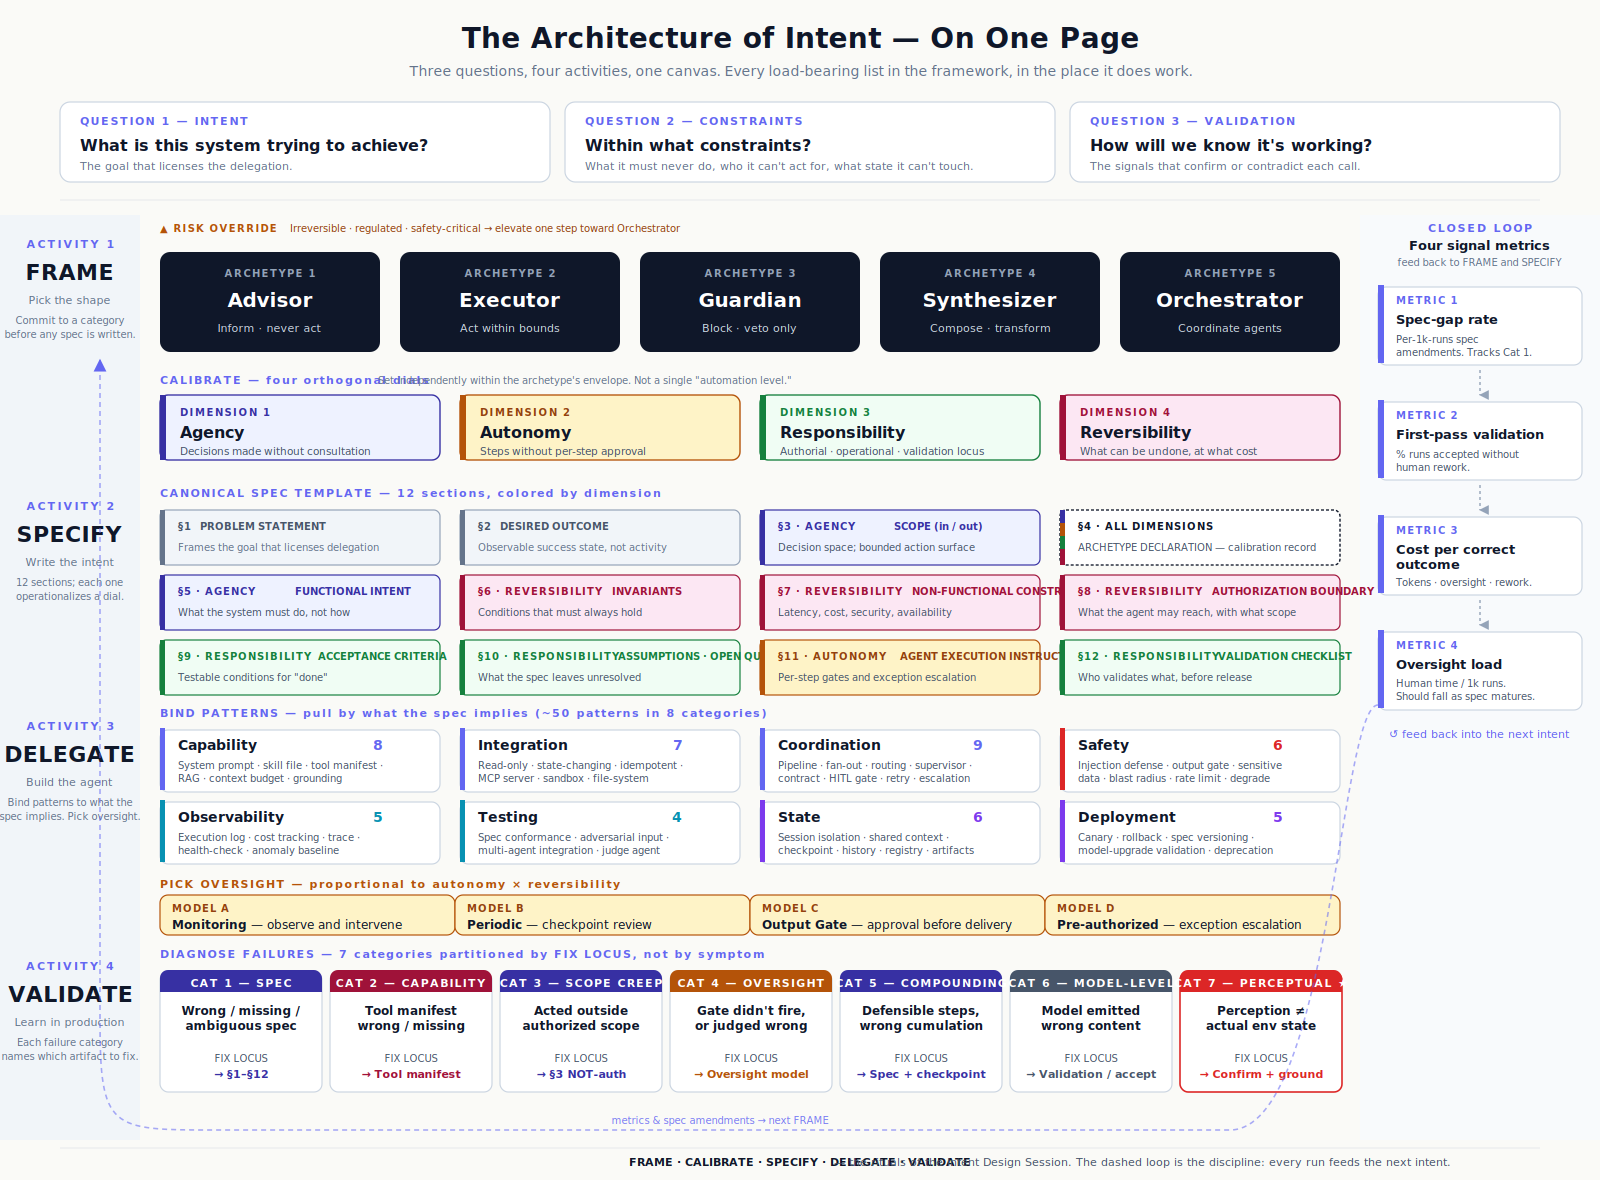
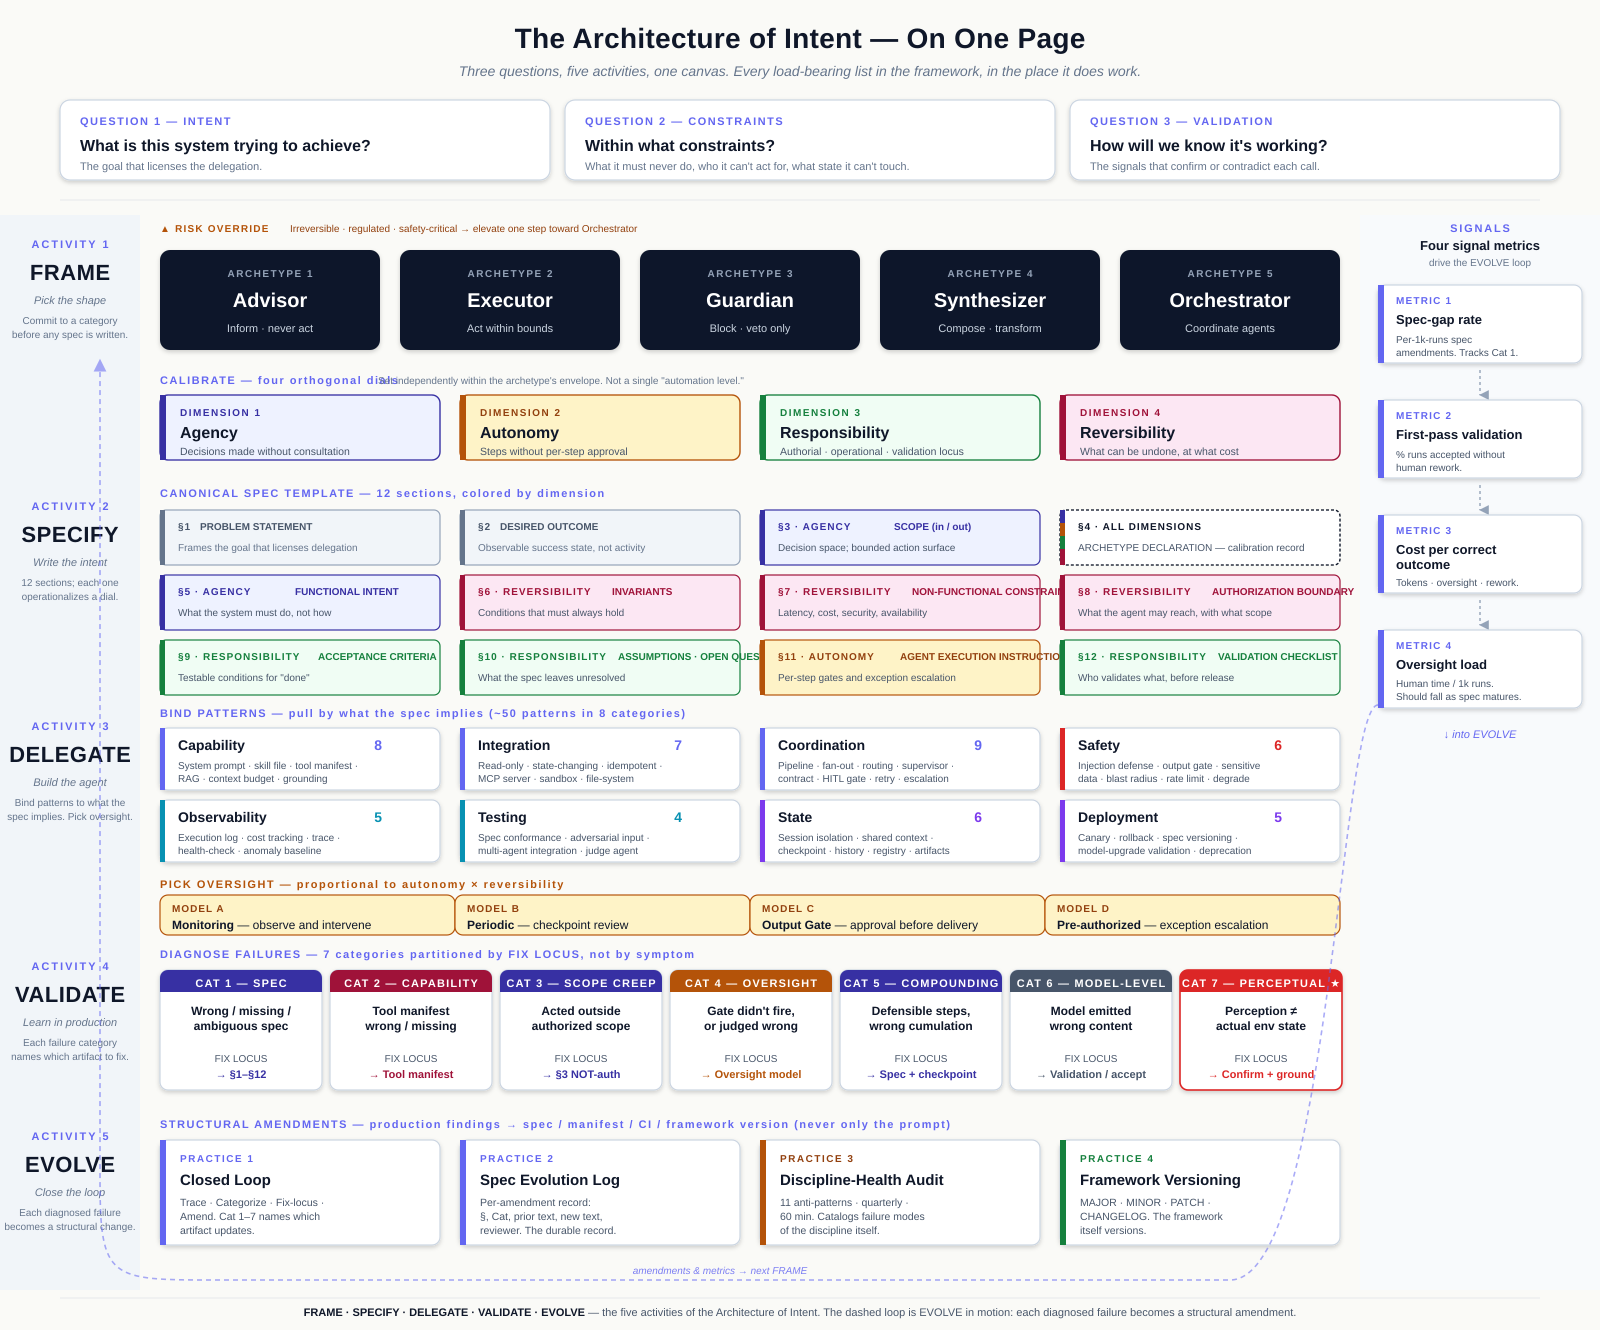
Canvas redraw + deck activities slide — v2.0.0-rc1 → v2.0.0-rc2 (MAJOR-rc)
Closes the rc1 prose-vs-figure gap (rc1 said "five activities" but the
canvas figure still showed four rows). Framework load-bearing commitments
unchanged from rc1.

Canvas redraw (paper/figures/architecture-of-intent-canvas.svg):
- viewBox extended 1180 → 1330; left-spine and right-rail backgrounds
  extend by 150px to match.
- New EVOLVE row at y=1140-1245 with four practice chips (Closed Loop ·
  Spec Evolution Log · Discipline-Health Audit · Framework Versioning),
  parallel in width and spacing to SPECIFY's four-column grid.
- Loop arrow redrawn: descends from right-rail metrics into EVOLVE,
  sweeps beneath EVOLVE at y=1280, ascends the left spine back to FRAME.
  EVOLVE becomes a first-class waypoint instead of an implicit feedback.
- Right-rail title softened from "CLOSED LOOP" to "SIGNALS — drive the
  EVOLVE loop" — metrics are now input to a named activity, not a
  self-contained closing loop.
- Bottom caption updated to "FRAME · SPECIFY · DELEGATE · VALIDATE ·
  EVOLVE — the five activities of the Architecture of Intent."
- PNG regenerated at 1600×1330 and mirrored to src/images/.

Deck (paper/presentation_content.py + rebuilt PPTX/HTML):
- New activities slide (kind=table, "Five activities, one canvas")
  inserted at position 6, showing each activity with what it binds and
  what it produces.
- Existing "Four load-bearing elements" cards4 retitled to
  "...bound to the spine" to clarify the activities-as-spine framing.
[…]

diff --git a/paper/architecture-of-intent.html b/paper/architecture-of-intent.html
@@ -748,7 +748,7 @@ body.overview .slide > * { transform: scale(0.32); transform-origin: top left; w
   
     <div class="page-footer">
       <span class="footer-left">The Architecture of Intent  ·  Marcel Aldecoa, 2026</span>
-      <span class="footer-right">02 / 19</span>
+      <span class="footer-right">02 / 20</span>
     </div>
 </section>
 
@@ -770,7 +770,7 @@ body.overview .slide > * { transform: scale(0.32); transform-origin: top left; w
   
     <div class="page-footer">
       <span class="footer-left">The Architecture of Intent  ·  Marcel Aldecoa, 2026</span>
-      <span class="footer-right">03 / 19</span>
+      <span class="footer-right">03 / 20</span>
     </div>
 </section>
 
@@ -806,7 +806,7 @@ body.overview .slide > * { transform: scale(0.32); transform-origin: top left; w
   
     <div class="page-footer">
       <span class="footer-left">The Architecture of Intent  ·  Marcel Aldecoa, 2026</span>
-      <span class="footer-right">04 / 19</span>
+      <span class="footer-right">04 / 20</span>
     </div>
 </section>
 
@@ -842,7 +842,26 @@ body.overview .slide > * { transform: scale(0.32); transform-origin: top left; w
   
     <div class="page-footer">
       <span class="footer-left">The Architecture of Intent  ·  Marcel Aldecoa, 2026</span>
-      <span class="footer-right">05 / 19</span>
+      <span class="footer-right">05 / 20</span>
+    </div>
+</section>
+
+
+<section class="slide slide-table">
+  
+    <div class="section-chip">
+      <span class="chip-square"></span>
+      <span class="chip-label">02 · ACTIVITIES</span>
+    </div>
+  <h2 class="slide-title">Five activities, one canvas</h2>
+  <div class="slide-tagline">The framework is organized along an activity spine. Each activity binds a specific load-bearing list; reading the framework along the spine makes the rest fit together.</div>
+  <table class="modern-table"><thead><tr><th>Activity</th><th>Binds</th><th>Output</th></tr></thead>
+    <tbody><tr><td class="first">Frame</td><td class="">5 archetypes · 4 dimensions</td><td class="">Archetype + calibration</td></tr><tr><td class="first">Specify</td><td class="">12 spec sections · sub-blocks</td><td class="">The canonical spec</td></tr><tr><td class="first">Delegate</td><td class="">8 pattern categories · 4 oversight</td><td class="">Bound agent + oversight</td></tr><tr><td class="first">Validate</td><td class="">7 failure cats · 4 signal metrics</td><td class="">Diagnosed failures, fix-locus</td></tr><tr><td class="first">Evolve</td><td class="">Closed loop · audit · versioning</td><td class="">Structural amendments</td></tr></tbody>
+  </table>
+  
+    <div class="page-footer">
+      <span class="footer-left">The Architecture of Intent  ·  Marcel Aldecoa, 2026</span>
+      <span class="footer-right">06 / 20</span>
     </div>
 </section>
 
@@ -853,7 +872,7 @@ body.overview .slide > * { transform: scale(0.32); transform-origin: top left; w
       <span class="chip-square"></span>
       <span class="chip-label">02 · THE FRAMEWORK</span>
     </div>
-  <h2 class="slide-title">Four load-bearing elements</h2>
+  <h2 class="slide-title">Four load-bearing elements bound to the spine</h2>
   <div class="slide-tagline">The synthesis is the larger contribution. The four bind into a framework you can apply in design, in spec review, and in post-incident diagnosis.</div>
   <div class="cards4-grid">
     
@@ -893,7 +912,7 @@ body.overview .slide > * { transform: scale(0.32); transform-origin: top left; w
   
     <div class="page-footer">
       <span class="footer-left">The Architecture of Intent  ·  Marcel Aldecoa, 2026</span>
-      <span class="footer-right">06 / 19</span>
+      <span class="footer-right">07 / 20</span>
     </div>
 </section>
 
@@ -912,7 +931,7 @@ body.overview .slide > * { transform: scale(0.32); transform-origin: top left; w
   
     <div class="page-footer">
       <span class="footer-left">The Architecture of Intent  ·  Marcel Aldecoa, 2026</span>
-      <span class="footer-right">07 / 19</span>
+      <span class="footer-right">08 / 20</span>
     </div>
 </section>
 
@@ -1131,7 +1150,7 @@ body.overview .slide > * { transform: scale(0.32); transform-origin: top left; w
   
     <div class="page-footer">
       <span class="footer-left">The Architecture of Intent  ·  Marcel Aldecoa, 2026</span>
-      <span class="footer-right">08 / 19</span>
+      <span class="footer-right">09 / 20</span>
     </div>
 </section>
 
@@ -1182,7 +1201,7 @@ body.overview .slide > * { transform: scale(0.32); transform-origin: top left; w
   
     <div class="page-footer">
       <span class="footer-left">The Architecture of Intent  ·  Marcel Aldecoa, 2026</span>
-      <span class="footer-right">09 / 19</span>
+      <span class="footer-right">10 / 20</span>
     </div>
 </section>
 
@@ -1344,7 +1363,7 @@ body.overview .slide > * { transform: scale(0.32); transform-origin: top left; w
   
     <div class="page-footer">
       <span class="footer-left">The Architecture of Intent  ·  Marcel Aldecoa, 2026</span>
-      <span class="footer-right">10 / 19</span>
+      <span class="footer-right">11 / 20</span>
     </div>
 </section>
 
@@ -1413,7 +1432,7 @@ body.overview .slide > * { transform: scale(0.32); transform-origin: top left; w
   
     <div class="page-footer">
       <span class="footer-left">The Architecture of Intent  ·  Marcel Aldecoa, 2026</span>
-      <span class="footer-right">11 / 19</span>
+      <span class="footer-right">12 / 20</span>
     </div>
 </section>
 
@@ -1463,7 +1482,7 @@ body.overview .slide > * { transform: scale(0.32); transform-origin: top left; w
   
     <div class="page-footer">
       <span class="footer-left">The Architecture of Intent  ·  Marcel Aldecoa, 2026</span>
-      <span class="footer-right">12 / 19</span>
+      <span class="footer-right">13 / 20</span>
     </div>
 </section>
 
@@ -1576,7 +1595,7 @@ body.overview .slide > * { transform: scale(0.32); transform-origin: top left; w
   
     <div class="page-footer">
       <span class="footer-left">The Architecture of Intent  ·  Marcel Aldecoa, 2026</span>
-      <span class="footer-right">13 / 19</span>
+      <span class="footer-right">14 / 20</span>
     </div>
 </section>
 
@@ -1625,7 +1644,7 @@ body.overview .slide > * { transform: scale(0.32); transform-origin: top left; w
   
     <div class="page-footer">
       <span class="footer-left">The Architecture of Intent  ·  Marcel Aldecoa, 2026</span>
-      <span class="footer-right">14 / 19</span>
+      <span class="footer-right">15 / 20</span>
     </div>
 </section>
 
@@ -1700,7 +1719,7 @@ body.overview .slide > * { transform: scale(0.32); transform-origin: top left; w
   
     <div class="page-footer">
       <span class="footer-left">The Architecture of Intent  ·  Marcel Aldecoa, 2026</span>
-      <span class="footer-right">15 / 19</span>
+      <span class="footer-right">16 / 20</span>
     </div>
 </section>
 
@@ -1719,7 +1738,7 @@ body.overview .slide > * { transform: scale(0.32); transform-origin: top left; w
   
     <div class="page-footer">
       <span class="footer-left">The Architecture of Intent  ·  Marcel Aldecoa, 2026</span>
-      <span class="footer-right">16 / 19</span>
+      <span class="footer-right">17 / 20</span>
     </div>
 </section>
 
@@ -1776,7 +1795,7 @@ body.overview .slide > * { transform: scale(0.32); transform-origin: top left; w
   
     <div class="page-footer">
       <span class="footer-left">The Architecture of Intent  ·  Marcel Aldecoa, 2026</span>
-      <span class="footer-right">17 / 19</span>
+      <span class="footer-right">18 / 20</span>
     </div>
 </section>
 
@@ -1833,7 +1852,7 @@ body.overview .slide > * { transform: scale(0.32); transform-origin: top left; w
   
     <div class="page-footer">
       <span class="footer-left">The Architecture of Intent  ·  Marcel Aldecoa, 2026</span>
-      <span class="footer-right">18 / 19</span>
+      <span class="footer-right">19 / 20</span>
     </div>
 </section>
 
@@ -1867,7 +1886,7 @@ body.overview .slide > * { transform: scale(0.32); transform-origin: top left; w
 
   </div>
 </div>
-<div class="nav-hint">1 / 19</div>
+<div class="nav-hint">1 / 20</div>
 <div class="progress-bar"></div>
 <script>
 (function(){

diff --git a/paper/check-deck-sync.py b/paper/check-deck-sync.py
@@ -84,8 +84,7 @@ CANONICAL_NOT_CLAIMED_COUNT = 4
 
 # Five framework activities — promoted to a load-bearing list in v2.0.0
 # (Evolve was elevated from a closing-Validate sub-discipline to a peer
-# fifth activity). Paper-side only at rc1 because the deck has no
-# activities slide yet; the deck-side check activates when a slide lands.
+# fifth activity). Both paper and deck checked from rc2 onward.
 CANONICAL_PHASES = [
     "Frame",
     "Specify",
@@ -208,13 +207,12 @@ def check_devsquad_phases(paper_text):
     return failures
 
 
-def check_phases(paper_text):
-    """All 5 framework activity names appear in the paper.
+def check_phases(paper_text, deck):
+    """All 5 framework activity names appear in both paper and deck.
 
-    v2.0.0-rc1: paper-side only. The deck has no activities slide yet;
-    when one lands, add a deck-side check that mirrors check_archetypes's
-    pattern (find slide by section substring 'ACTIVITIES', verify rows
-    match CANONICAL_PHASES).
+    Paper side: capitalized phase names appear as standalone words.
+    Deck side: there is a `kind=table` slide whose section contains
+    'ACTIVITIES' and whose first column matches CANONICAL_PHASES in order.
 
     Match is verbatim and case-sensitive on the capitalized phase names
     (Frame, Specify, Delegate, Validate, Evolve) — the activity names
@@ -224,6 +222,16 @@ def check_phases(paper_text):
     for phase in CANONICAL_PHASES:
         if not re.search(rf"\b{re.escape(phase)}\b", paper_text):
             failures.append(f"framework activity '{phase}' missing from paper")
+
+    slide = find_slide(deck.SLIDES, "table", section_substr="ACTIVITIES")
+    if slide is None:
+        failures.append("deck has no activities table slide (kind=table, section contains 'ACTIVITIES')")
+    else:
+        deck_phases = [row[0] for row in slide["rows"]]
+        if deck_phases != CANONICAL_PHASES:
+            failures.append(
+                f"deck activities table is {deck_phases}, expected {CANONICAL_PHASES}"
+            )
     return failures
 
 
@@ -267,7 +275,7 @@ def main():
         ("Failure categories (7)",  lambda: check_categories(paper_text, deck)),
         ("Cat 7 sub-categories (4)", lambda: check_cat7_subs(paper_text, deck)),
         ("DevSquad phases (8)",     lambda: check_devsquad_phases(paper_text)),
-        ("Framework activities (5)", lambda: check_phases(paper_text)),
+        ("Framework activities (5)", lambda: check_phases(paper_text, deck)),
         ("Honest-accounting cardinality (3 / 4)", lambda: check_honest_accounting(deck)),
     ]:
         f = fn()

diff --git a/paper/presentation_content.py b/paper/presentation_content.py
@@ -134,9 +134,24 @@ SLIDES = [
     },
     # --------------------------------------------------------------- 6
     {
+        "kind": "table",
+        "section": "02 · ACTIVITIES",
+        "title":   "Five activities, one canvas",
+        "tagline": "The framework is organized along an activity spine. Each activity binds a specific load-bearing list; reading the framework along the spine makes the rest fit together.",
+        "headers": ["Activity", "Binds", "Output"],
+        "rows": [
+            ["Frame",     "5 archetypes · 4 dimensions",            "Archetype + calibration"],
+            ["Specify",   "12 spec sections · sub-blocks",          "The canonical spec"],
+            ["Delegate",  "8 pattern categories · 4 oversight",     "Bound agent + oversight"],
+            ["Validate",  "7 failure cats · 4 signal metrics",      "Diagnosed failures, fix-locus"],
+            ["Evolve",    "Closed loop · audit · versioning",       "Structural amendments"],
+        ],
+    },
+    # --------------------------------------------------------------- 7
+    {
         "kind": "cards4",
         "section": "02 · THE FRAMEWORK",
-        "title":   "Four load-bearing elements",
+        "title":   "Four load-bearing elements bound to the spine",
         "tagline": "The synthesis is the larger contribution. The four bind into a framework you can apply in design, in spec review, and in post-incident diagnosis.",
         "cards": [
             ("01", "ARCHETYPES",

diff --git a/CHANGELOG.md b/CHANGELOG.md
@@ -18,6 +18,47 @@ The version moves with PR merges to `main`. PR descriptions should name the bump
 
 ---
 
+## v2.0.0-rc2 — 2026-05-10
+
+**MAJOR (release candidate, continues v2.0.0 line)** — ships the five-row canvas redraw and the teaching-deck activities slide that were deferred from rc1. This rc closes the rc1 prose-vs-figure gap (rc1 said "five activities" but the canvas figure still showed four rows). The framework's load-bearing commitments are unchanged from rc1.
+
+### Added
+
+- **Canvas redraw to five rows.** `paper/figures/architecture-of-intent-canvas.svg` extended from a 1180px-tall, four-activity layout to a 1330px-tall, five-activity layout. New EVOLVE row contains four practice chips (Closed Loop · Spec Evolution Log · Discipline-Health Audit · Framework Versioning) parallel in width and spacing to the SPECIFY row's grid. Loop arrow redrawn to descend from the right-rail metrics into EVOLVE, sweep beneath EVOLVE, and ascend the left spine back to FRAME — preserving the "metrics → next intent" semantic while making EVOLVE a first-class waypoint instead of an implicit feedback. Right-rail title softened from "CLOSED LOOP" to "SIGNALS" with the strap "drive the EVOLVE loop," reflecting that the metrics are now the *input* to a named activity rather than a self-contained closing loop. Bottom caption updated from "FRAME · CALIBRATE · SPECIFY · DELEGATE · VALIDATE" to "FRAME · SPECIFY · DELEGATE · VALIDATE · EVOLVE — the five activities of the Architecture of Intent."
+- **Canvas PNG regenerated** at 1600×1330 (was 1600×1180) and mirrored to `src/images/architecture-of-intent-canvas.png` for mdBook.
+- **Deck activities slide.** `paper/presentation_content.py` gains a new slide at position 6 (`kind=table`, `section="02 · ACTIVITIES"`, title *"Five activities, one canvas"*) showing the five activities with the load-bearing list each binds and the artifact each produces. Existing "Four load-bearing elements" cards4 slide retitled to *"Four load-bearing elements bound to the spine"* to clarify the activities-as-spine framing. Both PPTX and HTML decks rebuilt; deck count goes from 19 → 20 slides.
+- **Deck-side phase check.** `paper/check-deck-sync.py`'s `check_phases()` previously checked the paper only at rc1; it now checks both the paper *and* the deck's activities table (mirrors `check_archetypes()`'s deck-side enforcement). The five-activity cardinality is now sync-locked across both artifacts.
+
+### Updated
+
+- **`src/introduction.md`** — image alt-text rewritten to describe the new five-row canvas; the rc1 deferral annotation paragraph removed.
+- **`paper/architecture-of-intent.md`** — figure caption rewritten to describe the new five-row layout; the rc1 deferral language removed; status header advances to **v2.0.0-rc2** with the rc2-shipped notation.
+- **`paper/architecture-of-intent.pdf`** — recompiled with the new figure caption; PDF size grows from ~982KB to ~1.16MB to accommodate the taller figure.
+- **Version markers advanced from `v2.0.0-rc1` to `v2.0.0-rc2`** in `src/appendices/glossary.md` (Framework Version entry), `src/appendices/companion-paper.md` (Framework version section), and `README.md` (Framework version section). The README's "four activities" enumeration also gets corrected to "five activities" — this was a v1.4.0-era leftover that PR #53 missed.
+
+### Deferred to subsequent rcs (unchanged from rc1's plan)
+
+- File-path renames (`architecture/` → `frame/` etc.) — purely filesystem cleanup; no reader-facing change.
+- Phase-5 chapter prose (PR-B).
+- Three scenarios written in full (PR-C, PR-E, PR-F).
+- Voice rewrites (PR-G, PR-H, PR-I).
+- Paper §5 — single canonical scenario walked end-to-end (PR-D).
+- Reading paths appendix (PR-J).
+
+### Trade-offs
+
+The rc2 canvas redraw extends the SVG height by 150px and adds a 105px-tall row of four chips. The chips deliberately mirror SPECIFY's four-column grid for visual consistency with the rest of the canvas. The right-rail metrics column intentionally does NOT move into the EVOLVE row — keeping it on the right rail preserves the existing visual conceit that signals are continuous (always emitting) while the activity rows are sequential (each happens at a particular phase of the work).
+
+### Why MAJOR-rc
+
+This rc continues the v2.0.0 MAJOR line because the deck-side phases check goes from non-existent to enforcing five activities — a net new sync constraint. Decks or papers that had been authored against v1.x's four-activity assumption fail this check; that's the intended behavior. The version number stays in the rc-line until the prose work and the file-path renames land; v2.0.0 final ships when the rc series stabilizes.
+
+### PRs
+
+- **PR-A2** (this rc) — canvas redraw, deck activities slide, deck-side phase check, version markers, paper PDF rebuild.
+
+---
+
 ## v2.0.0-rc1 — 2026-05-10
 
 **MAJOR (release candidate)** — promotes *Evolve* from a closing-Validate sub-discipline to a peer fifth activity, introduces three running scenarios across the five activities, and reorganizes the book around the activity spine. This is the structural commit of the v2.0.0 line; the prose work for the Phase-5 chapters and the 15 scenario chapters lands in subsequent rcs (PR-B through PR-F per the rollout plan in PR-A's description). The canvas redraw to a five-row layout, the teaching-deck refresh, and any file-path renames are deferred to PR-A2 / PR-A3 within the v2.0.0-rc line.

diff --git a/paper/architecture-of-intent.md b/paper/architecture-of-intent.md
@@ -5,7 +5,7 @@
 
 **Paper status:** Skeleton draft (paper v0.1). Position/framework paper, ~12–15 pages target. Companion artifact to the book of the same title.
 
-**Framework version:** v2.0.0-rc1 (2026-05-10). Both this paper and the [companion book](https://github.com/marcelaldecoa/TheArchitectureOfIntent) reflect the same framework version; load-bearing commitments (the five archetypes, the four dimensions, the seven failure categories, the four oversight models, the four signal metrics, the **five** activities, composition as a first-class design surface) move together. The v2.0.0 major bump promoted *Evolve* from a closing-Validate sub-discipline to a peer fifth activity, introduced three running scenarios across the activities in the book, and reorganized the book around the activity spine; the paper acquires §5 (a single canonical scenario walked end-to-end) in a subsequent rc. See `CHANGELOG.md` at the repository root for the versioning convention and release history.
+**Framework version:** v2.0.0-rc2 (2026-05-10). Both this paper and the [companion book](https://github.com/marcelaldecoa/TheArchitectureOfIntent) reflect the same framework version; load-bearing commitments (the five archetypes, the four dimensions, the seven failure categories, the four oversight models, the four signal metrics, the **five** activities, composition as a first-class design surface) move together. The v2.0.0 major bump promoted *Evolve* from a closing-Validate sub-discipline to a peer fifth activity, introduced three running scenarios across the activities in the book, and reorganized the book around the activity spine. rc2 adds the five-row canvas redraw and a deck activities slide; the paper acquires §5 (a single canonical scenario walked end-to-end) in a later rc. See `CHANGELOG.md` at the repository root for the versioning convention and release history.
 
 **Target venue:** arXiv (cs.SE / cs.AI cross-listing). Workshop or journal submission to be decided after first arXiv version is released.
 
@@ -95,9 +95,9 @@ Pope et al. [@popeInferenceScaling2022] ground the inference-cost economics unde
 
 ## 3. The framework
 
-> *The framework on one page. Figure 1 below shows the four load-bearing elements of this section — archetypes, dimensions, failure categories, Spec-Driven Development — together with the activities that bind them and the four signal metrics that close the loop. The figure currently shows the v1.x four-activity spine (Frame, Specify, Delegate, Validate); v2.0.0 promotes **Evolve** to a peer fifth activity, with the canvas redraw following in a subsequent rc. The subsections of §3 develop each element; the figure is meant to be returned to between subsections, not read once.*
+> *The framework on one page. Figure 1 below shows the four load-bearing elements of this section — archetypes, dimensions, failure categories, Spec-Driven Development — together with the five activities that bind them and the four signal metrics that close the loop. The subsections of §3 develop each element; the figure is meant to be returned to between subsections, not read once.*
 
-![**Figure 1.** The Architecture of Intent on one page. Three questions every delegated system answers (top); four activities that work them out (Frame · Specify · Delegate · Validate, on the spine); the load-bearing constructs each activity binds — five archetypes, four orthogonal calibration dimensions, twelve canonical spec sections (each colored by the dimension it operationalizes), eight pattern categories, four oversight models, seven fix-locus failure categories; and four signal metrics on the right rail that feed back into the next intent. §3.2–§3.5 develop the constructs; §4 instantiates them against AI agent systems.](figures/architecture-of-intent-canvas.png){#fig:canvas width=95%}
+![**Figure 1.** The Architecture of Intent on one page. Three questions every delegated system answers (top); five activities that work them out (Frame · Specify · Delegate · Validate · Evolve, on the spine); the load-bearing constructs each activity binds — five archetypes, four orthogonal calibration dimensions, twelve canonical spec sections (each colored by the dimension it operationalizes), eight pattern categories, four oversight models, seven fix-locus failure categories, four practices of the closed loop; and four signal metrics on the right rail that descend into the EVOLVE row, where each diagnosed failure becomes a structural amendment that feeds the next intent. §3.2–§3.5 develop the constructs; §4 instantiates them against AI agent systems.](figures/architecture-of-intent-canvas.png){#fig:canvas width=95%}
 
 ### 3.1 Intent as a design surface
 

diff --git a/src/introduction.md b/src/introduction.md
@@ -51,9 +51,7 @@ The framework's primary worked instance is AI agent systems, which are the most-
 
 The five activities and every load-bearing list in the framework — five archetypes, four calibration dimensions, twelve spec sections, eight pattern categories, four oversight models, seven failure categories, four signal metrics — fit on a single page. The canvas below is that page, with each construct in the activity row where it does work. The rest of the book elaborates this picture; when you get lost, return here.
 
-![The Architecture of Intent on One Page. Three questions every delegated system answers (top); the five activities that work them out — Frame, Specify, Delegate, Validate, Evolve; the load-bearing constructs each activity binds; and the four signal metrics on the right rail that close the loop back to the next intent.](images/architecture-of-intent-canvas.png)
-
-> *The canvas figure above currently shows the v1.x four-activity layout (Frame, Specify, Delegate, Validate). v2.0.0 introduces **Evolve** as a peer fifth activity — the closed-loop discipline by which production findings flow back into spec amendments, framework versioning, and structural change. The canvas redraw to a five-row layout follows in v2.0.0-rc2; the prose, the SUMMARY structure, and the [`CHANGELOG.md`](https://github.com/marcelaldecoa/TheArchitectureOfIntent/blob/main/CHANGELOG.md) already reflect the new shape.*
+![The Architecture of Intent on One Page. Three questions every delegated system answers (top); the five activities that work them out — Frame, Specify, Delegate, Validate, Evolve; the load-bearing constructs each activity binds; and the four signal metrics on the right rail that descend into the EVOLVE row, where each diagnosed failure becomes a structural amendment that feeds the next intent.](images/architecture-of-intent-canvas.png)
 
 The book is organized around the five activities. **Part 1 — FRAME** stands up the archetypes, the four dimensions, and composition first-class. **Part 2 — SPECIFY** stands up the canonical spec template, the Composition Declaration and Cost Posture sub-blocks, the Intent Design Session, and the repertoires. **Part 3 — DELEGATE** stands up agent classes, capability and tool-manifest patterns, MCP, oversight, and the patterns that bind to what the spec implies. **Part 4 — VALIDATE** stands up failure diagnosis (the seven Cats), the four signal metrics, evals, red-team protocol, and the safety / observability / testing patterns that emit the validation signal. **Part 5 — EVOLVE** stands up the closed loop, governance, the Adoption Playbook, MVP-AoI, anti-patterns, framework versioning, and DevSquad co-adoption. **Part 6 — REFERENCE** is the catalog: cross-cutting coordination and state patterns, code standards, the legacy worked pilots that v2.0.0 supersedes with the in-practice scenarios, and the appendices.
 

diff --git a/README.md b/README.md
@@ -118,7 +118,7 @@ TheArchitectureOfIntent/
 
 ## Framework version
 
-The framework is at **v1.4.0** as of 2026-05-10. The book and the companion paper move together: a change to a load-bearing commitment (the five archetypes, the four dimensions, the seven failure categories, the four oversight models, the four signal metrics, the four activities, composition as a first-class design surface) bumps the framework version. See [`CHANGELOG.md`](CHANGELOG.md) for the versioning convention and the release history.
+The framework is at **v2.0.0-rc2** as of 2026-05-10. The book and the companion paper move together: a change to a load-bearing commitment (the five archetypes, the four dimensions, the seven failure categories, the four oversight models, the four signal metrics, the **five** activities, composition as a first-class design surface) bumps the framework version. See [`CHANGELOG.md`](CHANGELOG.md) for the versioning convention and the release history.
 
 ## Status
 

diff --git a/src/appendices/companion-paper.md b/src/appendices/companion-paper.md
@@ -73,6 +73,6 @@ The same accounting applies to the book. When you cite the framework, cite what 
 
 ## Framework version
 
-This appendix and the rest of the book reflect framework **v1.4.0** (2026-05-10). The paper reflects the same framework version. Both move together — the framework's load-bearing commitments are versioned, and a change in either artifact that touches a load-bearing commitment bumps the framework version. See [`CHANGELOG.md`](https://github.com/marcelaldecoa/TheArchitectureOfIntent/blob/main/CHANGELOG.md) at the repository root for the versioning convention and the release history.
+This appendix and the rest of the book reflect framework **v2.0.0-rc2** (2026-05-10). The paper reflects the same framework version. Both move together — the framework's load-bearing commitments are versioned, and a change in either artifact that touches a load-bearing commitment bumps the framework version. See [`CHANGELOG.md`](https://github.com/marcelaldecoa/TheArchitectureOfIntent/blob/main/CHANGELOG.md) at the repository root for the versioning convention and the release history.
 
 ---

diff --git a/src/appendices/glossary.md b/src/appendices/glossary.md
@@ -75,7 +75,7 @@ One of the five canonical intent archetypes. Characterizes systems that act auto
 A predictable way in which a system, agent, or spec produces wrong outcomes. Cataloging known failure modes is a core activity of intent engineering — because failure modes are design signals, not surprises. See [Failure Modes and How to Diagnose Them](../theory/05-failure-as-design-signal.md).
 
 **Framework Version**
-A semantic-ish version number for the Architecture of Intent as a whole. The version applies to the framework's load-bearing commitments — the five archetypes, the four dimensions, the seven failure categories, the four oversight models, the four signal metrics, the **five** activities, composition as a first-class design surface — as instantiated by the book and the companion paper *together*. **MAJOR** bumps mark structural changes that break existing specs (a sixth archetype, a removed Cat, promoting a sub-activity to a peer activity); **MINOR** bumps mark additions that don't (a new chapter, a new pattern, a new spec sub-block); **PATCH** bumps mark prose, link, and figure refinements. Current version: **v2.0.0-rc1** (2026-05-10) — the major bump that promoted *Evolve* to a peer fifth activity, introduced three running scenarios across the five activities, and reorganized the book around the activity spine. See [`CHANGELOG.md`](https://github.com/marcelaldecoa/TheArchitectureOfIntent/blob/main/CHANGELOG.md) at the repository root.
+A semantic-ish version number for the Architecture of Intent as a whole. The version applies to the framework's load-bearing commitments — the five archetypes, the four dimensions, the seven failure categories, the four oversight models, the four signal metrics, the **five** activities, composition as a first-class design surface — as instantiated by the book and the companion paper *together*. **MAJOR** bumps mark structural changes that break existing specs (a sixth archetype, a removed Cat, promoting a sub-activity to a peer activity); **MINOR** bumps mark additions that don't (a new chapter, a new pattern, a new spec sub-block); **PATCH** bumps mark prose, link, and figure refinements. Current version: **v2.0.0-rc2** (2026-05-10) — the major bump that promoted *Evolve* to a peer fifth activity, introduced three running scenarios across the five activities, and reorganized the book around the activity spine. rc2 ships the five-row canvas redraw and a deck activities slide. See [`CHANGELOG.md`](https://github.com/marcelaldecoa/TheArchitectureOfIntent/blob/main/CHANGELOG.md) at the repository root.
 
 **Framing**
 The act of defining the problem space precisely enough that delegation can be both safe and productive. Framing determines what the agent is trying to do, what counts as success, and what must not happen. The foundation of every good spec.